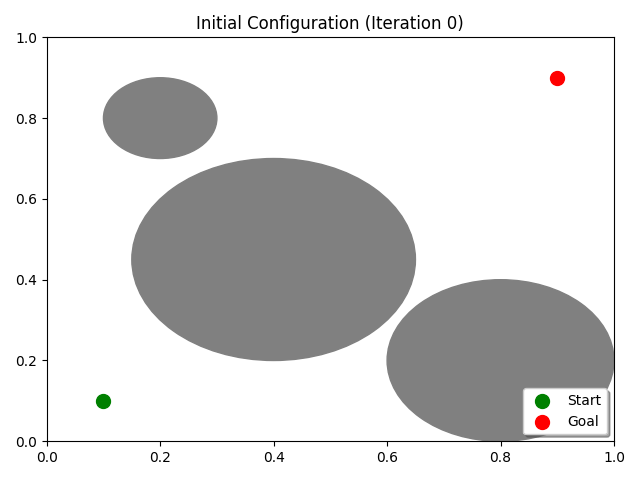
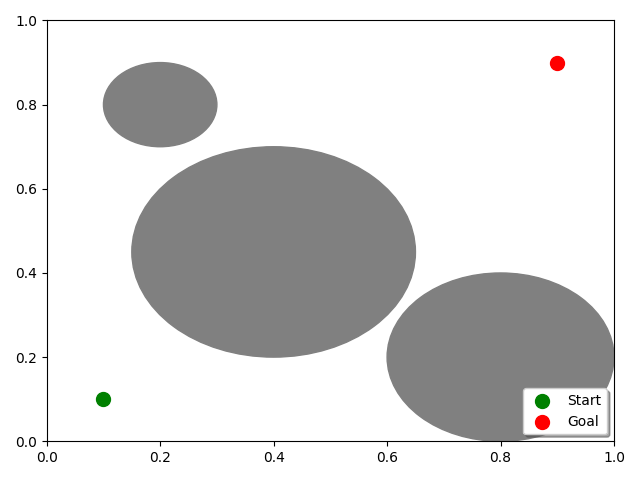
update

diff --git a/examples/path_planning_dem.py b/examples/path_planning_dem.py
@@ -292,7 +292,7 @@ if __name__ == "__main__":
     # plain RRT
     tree, g = rrt(Node(start.x, start.y), Node(goal.x, goal.y),
                   obs, step=step)
-    plot_initial(start, goal, obs, "Initial Configuration (Iteration 0)")
+    plot_initial(start, goal, obs, "")
     if g:
         plot_path(tree, extract_path(g), start, goal, obs,
                   f"RRT (step size={step} | number of nodes={len(tree)})")
